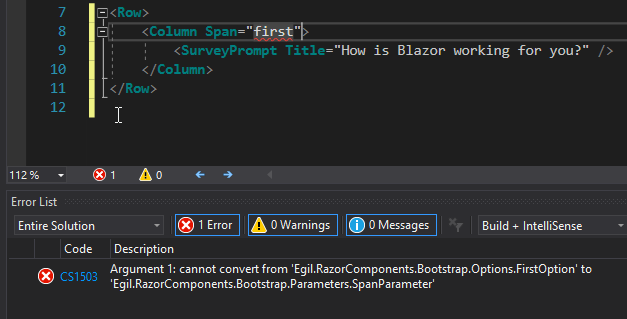
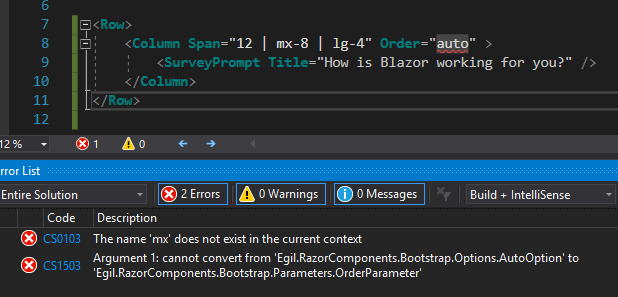
Update to readme

diff --git a/README.md b/README.md
@@ -1,35 +1,44 @@
-# BootstrapDotNet - Strongly Typed Bootstrap Razor Components #
-**NOTE:** Very experimental at the moment. Feedback is much appreciated.  
+# BootstrapDotNet - Strongly Typed Bootstrap Razor Components
+
+**NOTE:** Very experimental at the moment. Feedback is much appreciated.
 
 **NOTE:** Is based on Preview-5 of ASP.NET 3.
 
-**NOTE:** Documentation is far from complete. [TestClient](tests/Egil.RazorComponents.Bootstrap.BlazorTestClient/) *may* contain a working examples of how to use this library.
+**NOTE:** Documentation is far from complete. [TestClient](tests/Egil.RazorComponents.Bootstrap.BlazorTestClient/) _may_ contain a working examples of how to use this library.
 
 ## Strongly Typed Bootstrap - options verified at compile time
-The idea is to make it less likely that somebody breaks the Bootstrap
-conventions and creates invalid "Bootstrap HTML". 
 
-At the moment, the functionality around Bootstraps grid system is done, i.e. the components `<Container>`, `<Row>` and `<Column>`. Almost all properties 
-that can be set on one of the grid components are implemented. E.g. with `<Column>`, there is support for compile-time check of column options, 
+The idea is to make it less likely that somebody breaks the Bootstrap
+conventions and creates invalid "Bootstrap HTML".
+
+At the moment, the functionality around Bootstraps grid system is done, i.e. the components `<Container>`, `<Row>` and `<Column>`. Almost all properties
+that can be set on one of the grid components are implemented. E.g. with `<Column>`, there is support for compile-time check of column options,
 e.g. `col-{breakpoint}-{width}` and `col-auto`.
 
-The compile time check works by having a strongly typed parameter in `Column`, `[Parameter] SpanParameter Span { get; set; }`, and using static 
-imports to make variants of `ISpanOption`'s available in the razor views. The last piece of the puzzle is utilizing C# implicit operator overloading 
+The compile time check works by having a strongly typed parameter in `Column`, `[Parameter] SpanParameter Span { get; set; }`, and using static
+imports to make variants of `ISpanOption`'s available in the razor views. The last piece of the puzzle is utilizing C# implicit operator overloading
 to convert between the different subtypes of `SpanParameter` and `int`.
 
-That makes it possible to specify complex column configurations such as `<div class="col-12 col-md-8 col-lg-4">` 
-as `<Column Span="12 | md-8 | lg-4">`, which the compiler checks. If you e.g. by accident `mx-8` instead 
-of `md-8`, i.e. `<Column Span="12 | mx-8 | lg-4">`, the compiler will complain that `mx-8` is not a valid option.
+That makes it possible to specify complex column configurations such as `<div class="col-12 col-md-8 col-lg-4">`
+as `<Column Span="12 | md-8 | lg-4">`, which the compiler checks. If you e.g. by accident `mx-8` instead
+of `md-8`, i.e. `<Column Span="12 | mx-8 | lg-4">`, the compiler will complain.
+
+In the screenshot below, a invalid breakpoint has been specified in the `Span` property and the "auto" option is not
+valid for the `Order` property (it is in `Span`).
+
+![Compile time errors in BootstrapDotNet](docs/compile-time-error.png "Compile time erros")
 
 ### Runtime checks as fallback
-In some cases the compiler cannot be made to validate that correct options are applied, so BootstrapDotNet resorts 
+
+In some cases the compiler cannot be made to validate that correct options are applied, so BootstrapDotNet resorts
 to runtime validation instead. Currently, this is done in the following cases:
 
 - When specifying a number in a parameter or in a combination with another option, then the number range is validated at runtime.
 
 ## Setup
+
 1. Install the [nuget package](https://www.nuget.org/packages/BootstrapDotNet/) in your Blazor-client or Blazor-server-side application.
-2. Add the following to your `_Imports.cshtml`, e.g. in the root of your application.
+2. Add the following to your `_Imports.razor`, e.g. in the root of your application.
 
 ```cshtml
 @using Egil.RazorComponents.Bootstrap
@@ -41,102 +50,108 @@ to runtime validation instead. Currently, this is done in the following cases:
 3. If you are creating a Blazor client application based on the Blazor project template, you can delete the `wwwroot/css/bootstrap/bootstrap.min.css` file, since it is included in BootstrapDotNet. If you are creating a Blazor server-side project, then you should leave the file in place, and possible add Bootstrap 4.3's JavaScript files and jQuery, if you are using components that require JavaScript.
 
 ## Specifying options
-The following table compares specifying Bootstraps options using normal [Bootstrap grid-syntax](https://getbootstrap.com/docs/4.3/layout/grid) and 
+
+The following table compares specifying Bootstraps options using normal [Bootstrap grid-syntax](https://getbootstrap.com/docs/4.3/layout/grid) and
 that of using the library's syntax. That should make it possible for anyone familiar with Bootstraps syntax to quickly pick-up the library's syntax.
 
 ### Container
+
 Responsive container:
 
-| Bootstrap syntax  | BootstrapDotNet syntax |
-| ------------- | ------------- |
+| Bootstrap syntax                | BootstrapDotNet syntax    |
+| ------------------------------- | ------------------------- |
 | `<div class="container"></div>` | `<Container></Container>` |
 
 Fluid container:
 
-| Bootstrap syntax  | BootstrapDotNet syntax |
-| ------------- | ------------- |
+| Bootstrap syntax                      | BootstrapDotNet syntax                 |
+| ------------------------------------- | -------------------------------------- |
 | `<div class="container-fluid"></div>` | `<Container Type="fluid"></Container>` |
 
 ### Row
+
 **Row without options:**
 
-| Bootstrap syntax  | BootstrapDotNet syntax |
-| ------------- | ------------- |
-| `<div class="row"></div>` | `<Row></Row>` |
+| Bootstrap syntax          | BootstrapDotNet syntax |
+| ------------------------- | ---------------------- |
+| `<div class="row"></div>` | `<Row></Row>`          |
 
 **Row with no gutters:**
 
-| Bootstrap syntax  | BootstrapDotNet syntax |
-| ------------- | ------------- |
+| Bootstrap syntax                     | BootstrapDotNet syntax         |
+| ------------------------------------ | ------------------------------ |
 | `<div class="row no-gutters"></div>` | `<Row NoGutters="true"></Row>` |
 
 **Vertical alignment:**
 
-| Bootstrap syntax  | BootstrapDotNet syntax |
-| ------------- | ------------- |
-| `<div class="row align-items-start"></div>`                       | `<Row VerticalAlign="start"></Row>`             |
-| `<div class="row align-items-center"></div>`                      | `<Row VerticalAlign="center"></Row>`            |
-| `<div class="row align-items-end"></div>`                         | `<Row VerticalAlign="end"></Row>`               |
-| `<div class="row align-items-md-center"></div>`                   | `<Row VerticalAlign="md-center"></Row>`         |
+| Bootstrap syntax                                                  | BootstrapDotNet syntax                           |
+| ----------------------------------------------------------------- | ------------------------------------------------ |
+| `<div class="row align-items-start"></div>`                       | `<Row VerticalAlign="start"></Row>`              |
+| `<div class="row align-items-center"></div>`                      | `<Row VerticalAlign="center"></Row>`             |
+| `<div class="row align-items-end"></div>`                         | `<Row VerticalAlign="end"></Row>`                |
+| `<div class="row align-items-md-center"></div>`                   | `<Row VerticalAlign="md-center"></Row>`          |
 | `<div class="row align-items-start align-items-xl-center"></div>` | `<Row VerticalAlign="start \| xl-center"></Row>` |
 
 **Horizontal alignment:**
 
-| Bootstrap syntax  | BootstrapDotNet syntax |
-| ------------- | ------------- |
-| `<div class="row justify-content-start">`                           | `<Row Align="start"></Row>`             |
-| `<div class="row justify-content-center">`                          | `<Row Align="center"></Row>`            |
-| `<div class="row justify-content-end">`                             | `<Row Align="end"></Row>`               |
-| `<div class="row justify-content-around">`                          | `<Row Align="around"></Row>`            |
-| `<div class="row justify-content-between">`                         | `<Row Align="between"></Row>`           |
-| `<div class="row justify-content-md-around">`                       | `<Row Align="md-around"></Row>`         |
+| Bootstrap syntax                                                    | BootstrapDotNet syntax                   |
+| ------------------------------------------------------------------- | ---------------------------------------- |
+| `<div class="row justify-content-start">`                           | `<Row Align="start"></Row>`              |
+| `<div class="row justify-content-center">`                          | `<Row Align="center"></Row>`             |
+| `<div class="row justify-content-end">`                             | `<Row Align="end"></Row>`                |
+| `<div class="row justify-content-around">`                          | `<Row Align="around"></Row>`             |
+| `<div class="row justify-content-between">`                         | `<Row Align="between"></Row>`            |
+| `<div class="row justify-content-md-around">`                       | `<Row Align="md-around"></Row>`          |
 | `<div class="row justify-content-start justify-content-lg-center">` | `<Row Align="start \| lg-center"></Row>` |
 
 ### Column
+
 **Column without options:**
 
-| Bootstrap syntax  | BootstrapDotNet syntax |
-| ------------- | ------------- |
-| `<div class="col"></div>` | `<Column></Column>` |
+| Bootstrap syntax          | BootstrapDotNet syntax |
+| ------------------------- | ---------------------- |
+| `<div class="col"></div>` | `<Column></Column>`    |
 
 **Span with width (1-12) and breakpoints:**
 
-| Bootstrap syntax  | BootstrapDotNet syntax |
-| ------------- | ------------- |
-| `<div class="col-5"></div>`                      | `<Column Span="5"></Column>`                  |
-| `<div class="col-md"></div>`                     | `<Column Span="md"></Column>`                 |
-| `<div class="col-md-5"></div>`                   | `<Column Span="md-5"></Column>`               |
-| `<div class="col-auto"></div>`                   | `<Column Span="auto"></Column>`               |
-| `<div class="col-lg-auto"></div>`                | `<Column Span="lg-auto"></Column>`            |
+| Bootstrap syntax                                 | BootstrapDotNet syntax                          |
+| ------------------------------------------------ | ----------------------------------------------- |
+| `<div class="col-5"></div>`                      | `<Column Span="5"></Column>`                    |
+| `<div class="col-md"></div>`                     | `<Column Span="md"></Column>`                   |
+| `<div class="col-md-5"></div>`                   | `<Column Span="md-5"></Column>`                 |
+| `<div class="col-auto"></div>`                   | `<Column Span="auto"></Column>`                 |
+| `<div class="col-lg-auto"></div>`                | `<Column Span="lg-auto"></Column>`              |
 | `<div class="col-3 col-md-6 col-xl-auto"></div>` | `<Column Span="3 \| md-6 \| xl-auto"></Column>` |
 
 **Order with index (0-12), first, last, and breakpoints:**
 
-| Bootstrap syntax  | BootstrapDotNet syntax |
-| ------------- | ------------- |
-| `<div class="col order-4"></div>`                                      | `<Column Order="4"></Column>`                          |
-| `<div class="col order-first"></div>`                                  | `<Column Order="first"></Column>`                      |
-| `<div class="col order-last"></div>`                                   | `<Column Order="last"></Column>`                       |
-| `<div class="col order-sm-4"></div>`                                   | `<Column Order="sm-4"></Column>`                       |
+| Bootstrap syntax                                                       | BootstrapDotNet syntax                                    |
+| ---------------------------------------------------------------------- | --------------------------------------------------------- |
+| `<div class="col order-4"></div>`                                      | `<Column Order="4"></Column>`                             |
+| `<div class="col order-first"></div>`                                  | `<Column Order="first"></Column>`                         |
+| `<div class="col order-last"></div>`                                   | `<Column Order="last"></Column>`                          |
+| `<div class="col order-sm-4"></div>`                                   | `<Column Order="sm-4"></Column>`                          |
 | `<div class="col order-4 order-md-2 order-lg-0 order-xl-first"></div>` | `<Column Order="4 \| md-2 \| lg-0 \| xl-first"></Column>` |
 
 **Offset with number (1-11) and breakpoint and number (0-11):**
 
-| Bootstrap syntax  | BootstrapDotNet syntax |
-| ------------- | ------------- |
-| `<div class="col offset-4"></div>`                          | `<Column Offset="4"></Column>`               |
-| `<div class="col offset-sm-4"></div>`                       | `<Column Offset="sm-4"></Column>`            |
-| `<div class="col offset-2 offset-md-4 offset-xl-8"></div>`  | `<Column Offset="2 \| md-4 \| xl-8"></Column>` |
+| Bootstrap syntax                                           | BootstrapDotNet syntax                         |
+| ---------------------------------------------------------- | ---------------------------------------------- |
+| `<div class="col offset-4"></div>`                         | `<Column Offset="4"></Column>`                 |
+| `<div class="col offset-sm-4"></div>`                      | `<Column Offset="sm-4"></Column>`              |
+| `<div class="col offset-2 offset-md-4 offset-xl-8"></div>` | `<Column Offset="2 \| md-4 \| xl-8"></Column>` |
 
 ### Shared options that all components have
+
 **All components have the following parameters:**
 
-| Bootstrap syntax  | BootstrapDotNet syntax |
-| ------------- | ------------- |
-| `<div class="some-additional-class"></div>`  | `<Component AdditionalCssClasses="some-additional-class"></Component>` |
+| Bootstrap syntax                            | BootstrapDotNet syntax                                                 |
+| ------------------------------------------- | ---------------------------------------------------------------------- |
+| `<div class="some-additional-class"></div>` | `<Component AdditionalCssClasses="some-additional-class"></Component>` |
 
 ### Spacing utilities
-From [Bootstraps documentation on their Spacing utilities](https://getbootstrap.com/docs/4.3/utilities/spacing/), we see a 
+
+From [Bootstraps documentation on their Spacing utilities](https://getbootstrap.com/docs/4.3/utilities/spacing/), we see a
 number of different ways to specify margin and padding on Bootstrap components. On components that support padding and margin,
 currently `Row` and `Column`, one of the following syntax' are used:
 
@@ -145,12 +160,12 @@ currently `Row` and `Column`, one of the following syntax' are used:
 - {breakpoint}-{size}
 - {sides}-{breakpoint}-{size}
 
-Where *size* is: 
+Where _size_ is:
 
 - a number in the range from `-5` to `5` for both Margin and Padding
 - `auto` for Margin only.
 
-Where *sides* is one of:
+Where _sides_ is one of:
 
 - `top`, which matches the Bootstrap side param `t`
 - `bottom`, which matches the Bootstrap side param `b`
@@ -159,7 +174,7 @@ Where *sides* is one of:
 - `horizontal`, which matches the Bootstrap side param `x`
 - `vertical`, which matches the Bootstrap side param `y`
 
-And where *breakpoint* is one of:
+And where _breakpoint_ is one of:
 
 - `sm`
 - `md`
@@ -168,12 +183,12 @@ And where *breakpoint* is one of:
 
 **Examples, compared to Bootstrap:**
 
-| Bootstrap syntax  | BootstrapDotNet syntax |
-| ------------- | ------------- |
-| `<div class="row m-3 p-5"></div>`                      | `<Row Margin="3" Padding="5"></Row>`                        |
-| `<div class="row m-auto p-5"></div>`                   | `<Row Margin="auto" Padding="5"></Row>`                     |
-| `<div class="row mb-3 pt-5"></div>`                    | `<Row Margin="bottom-3" Padding="top-5"></Row>`             |
-| `<div class="row m-md-3 p-xl-auto"></div>`             | `<Row Margin="md-3" Padding="xl-auto"></Row>`               |
-| `<div class="row mr-md-3 px-xl-5"></div>`              | `<Row Margin="right-md-3" Padding="horizontal-xl-5"></Row>` |
-| `<div class="row mr-md-3 px-xl-5"></div>`              | `<Row Margin="right-md-3" Padding="horizontal-xl-5"></Row>` |
-| `<div class="row m-1 m-md-3 m-lg-5 p-2 p-md-3"></div>` | `<Row Margin="1 \| md-3 \| lg-5" Padding="2 \| md-3"></Row>`   |
+| Bootstrap syntax                                       | BootstrapDotNet syntax                                       |
+| ------------------------------------------------------ | ------------------------------------------------------------ |
+| `<div class="row m-3 p-5"></div>`                      | `<Row Margin="3" Padding="5"></Row>`                         |
+| `<div class="row m-auto p-5"></div>`                   | `<Row Margin="auto" Padding="5"></Row>`                      |
+| `<div class="row mb-3 pt-5"></div>`                    | `<Row Margin="bottom-3" Padding="top-5"></Row>`              |
+| `<div class="row m-md-3 p-xl-auto"></div>`             | `<Row Margin="md-3" Padding="xl-auto"></Row>`                |
+| `<div class="row mr-md-3 px-xl-5"></div>`              | `<Row Margin="right-md-3" Padding="horizontal-xl-5"></Row>`  |
+| `<div class="row mr-md-3 px-xl-5"></div>`              | `<Row Margin="right-md-3" Padding="horizontal-xl-5"></Row>`  |
+| `<div class="row m-1 m-md-3 m-lg-5 p-2 p-md-3"></div>` | `<Row Margin="1 \| md-3 \| lg-5" Padding="2 \| md-3"></Row>` |
